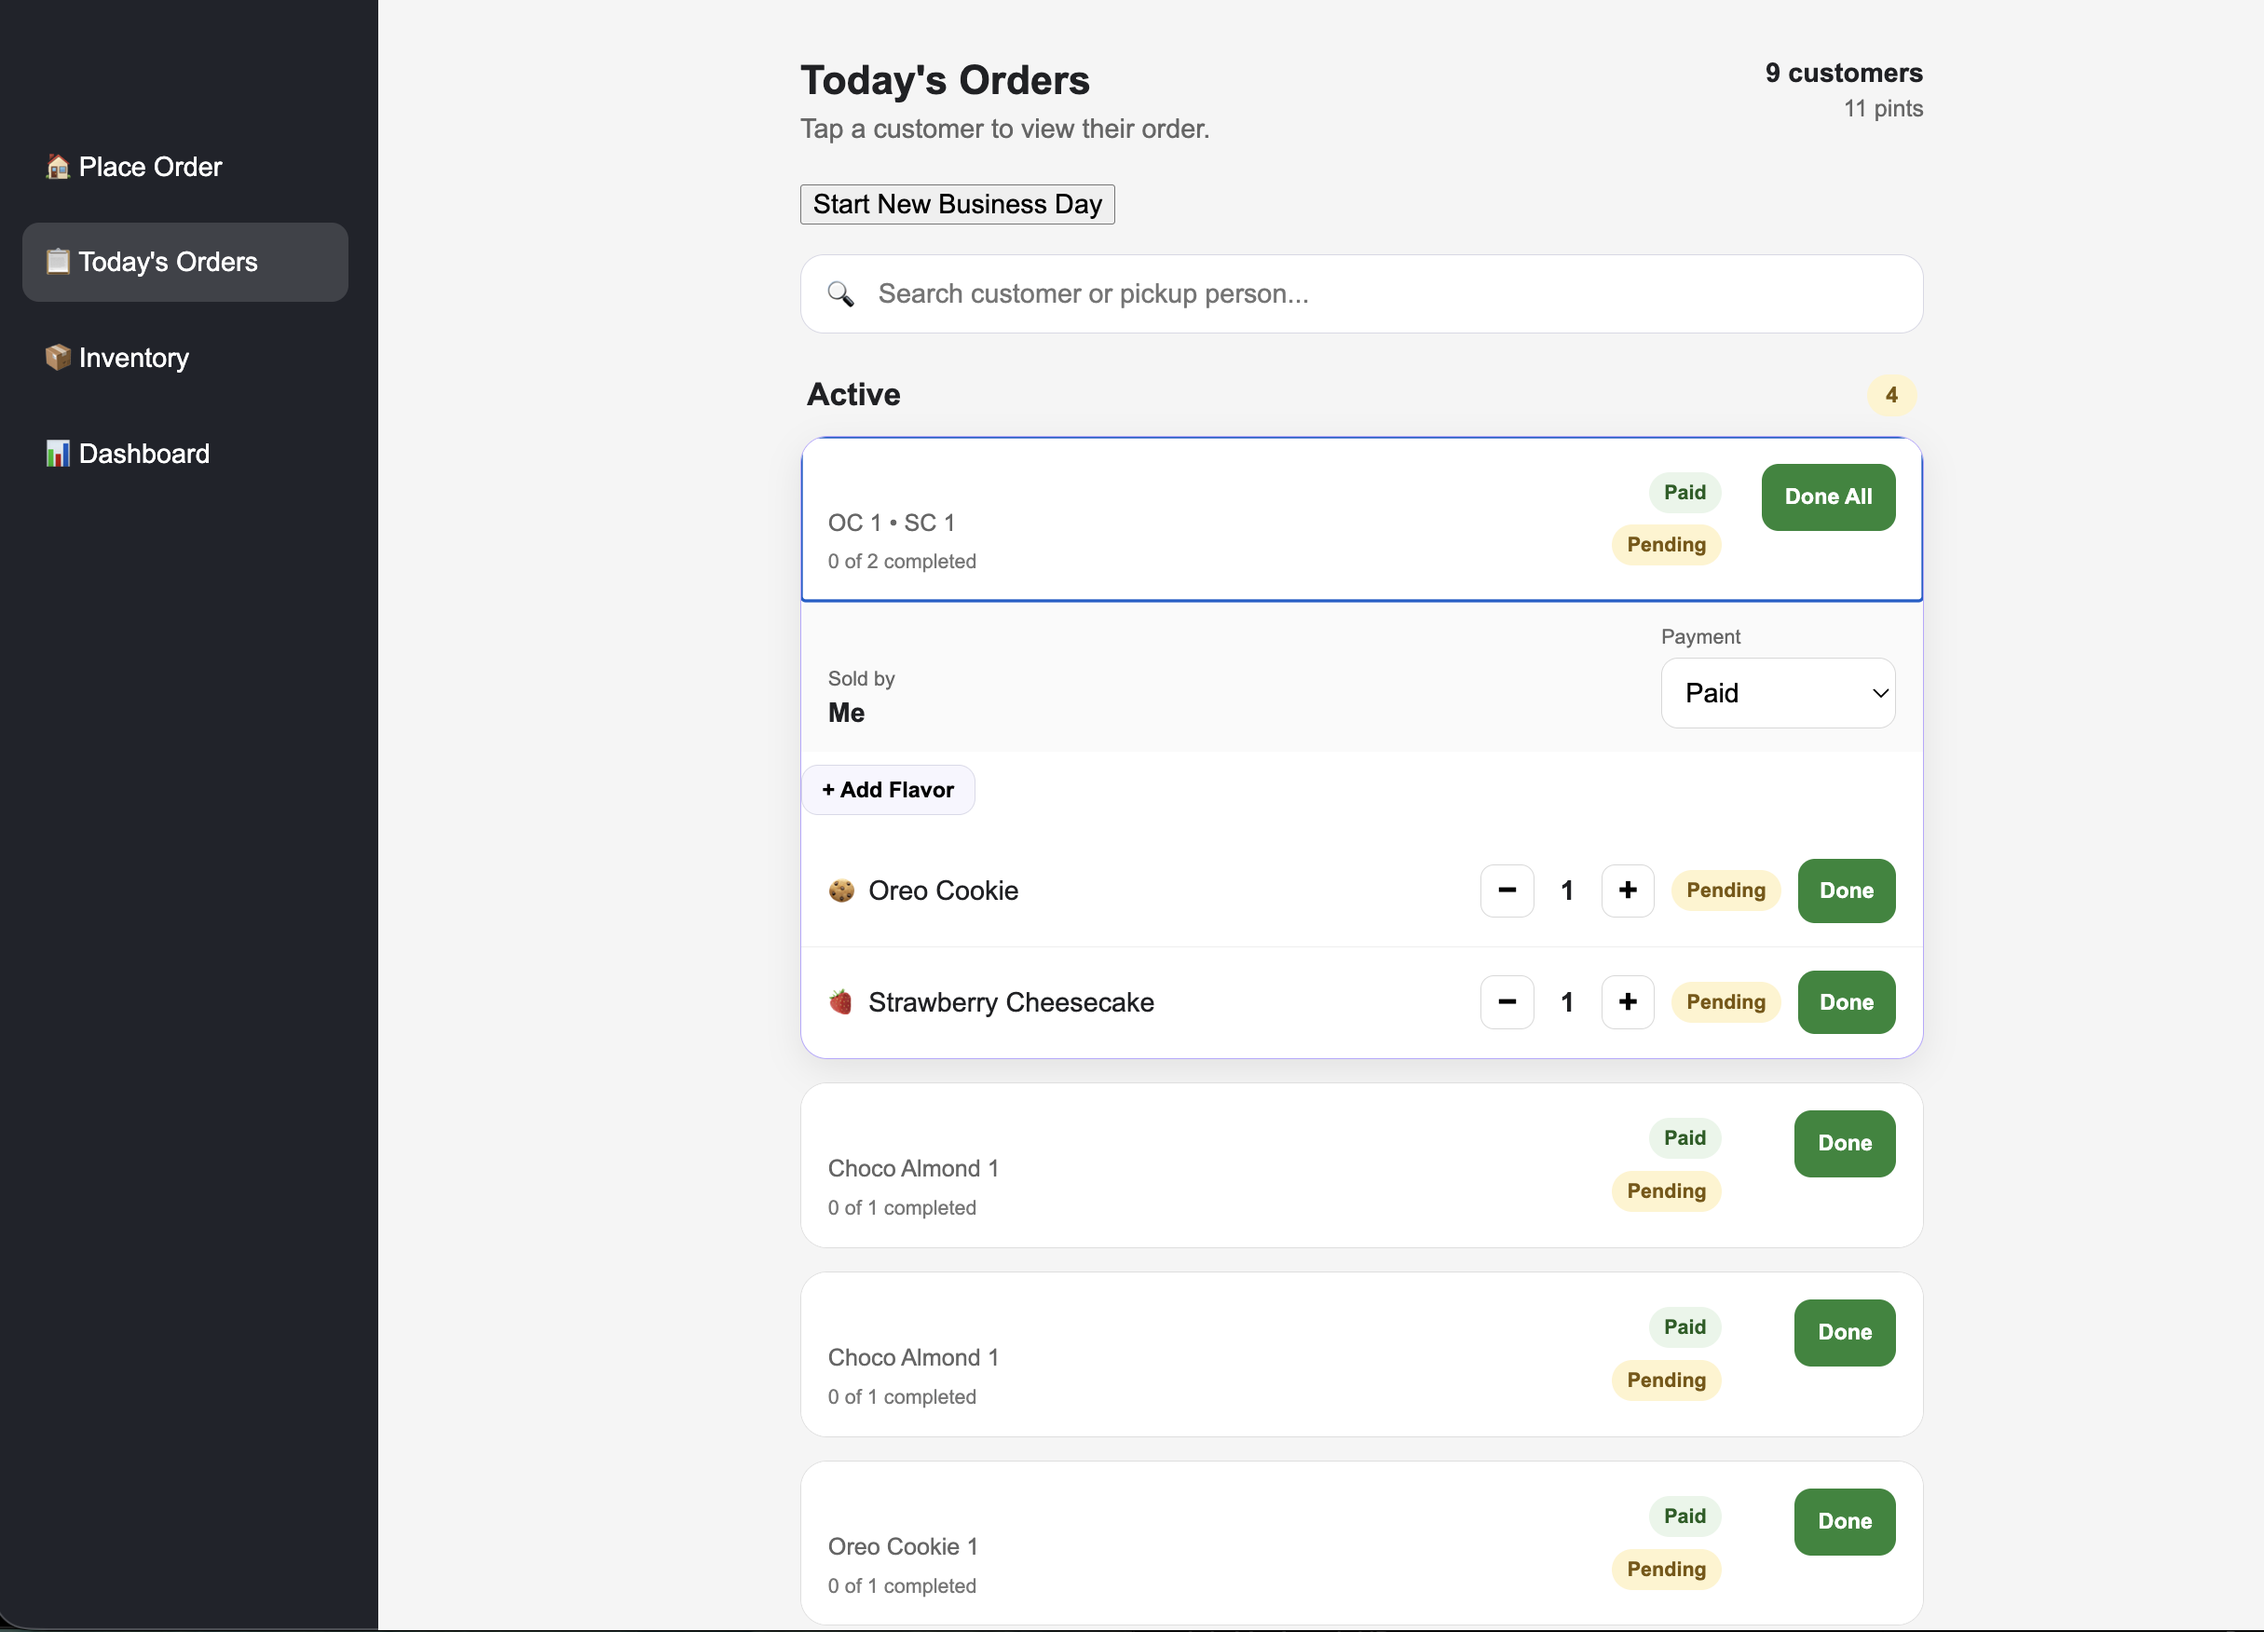
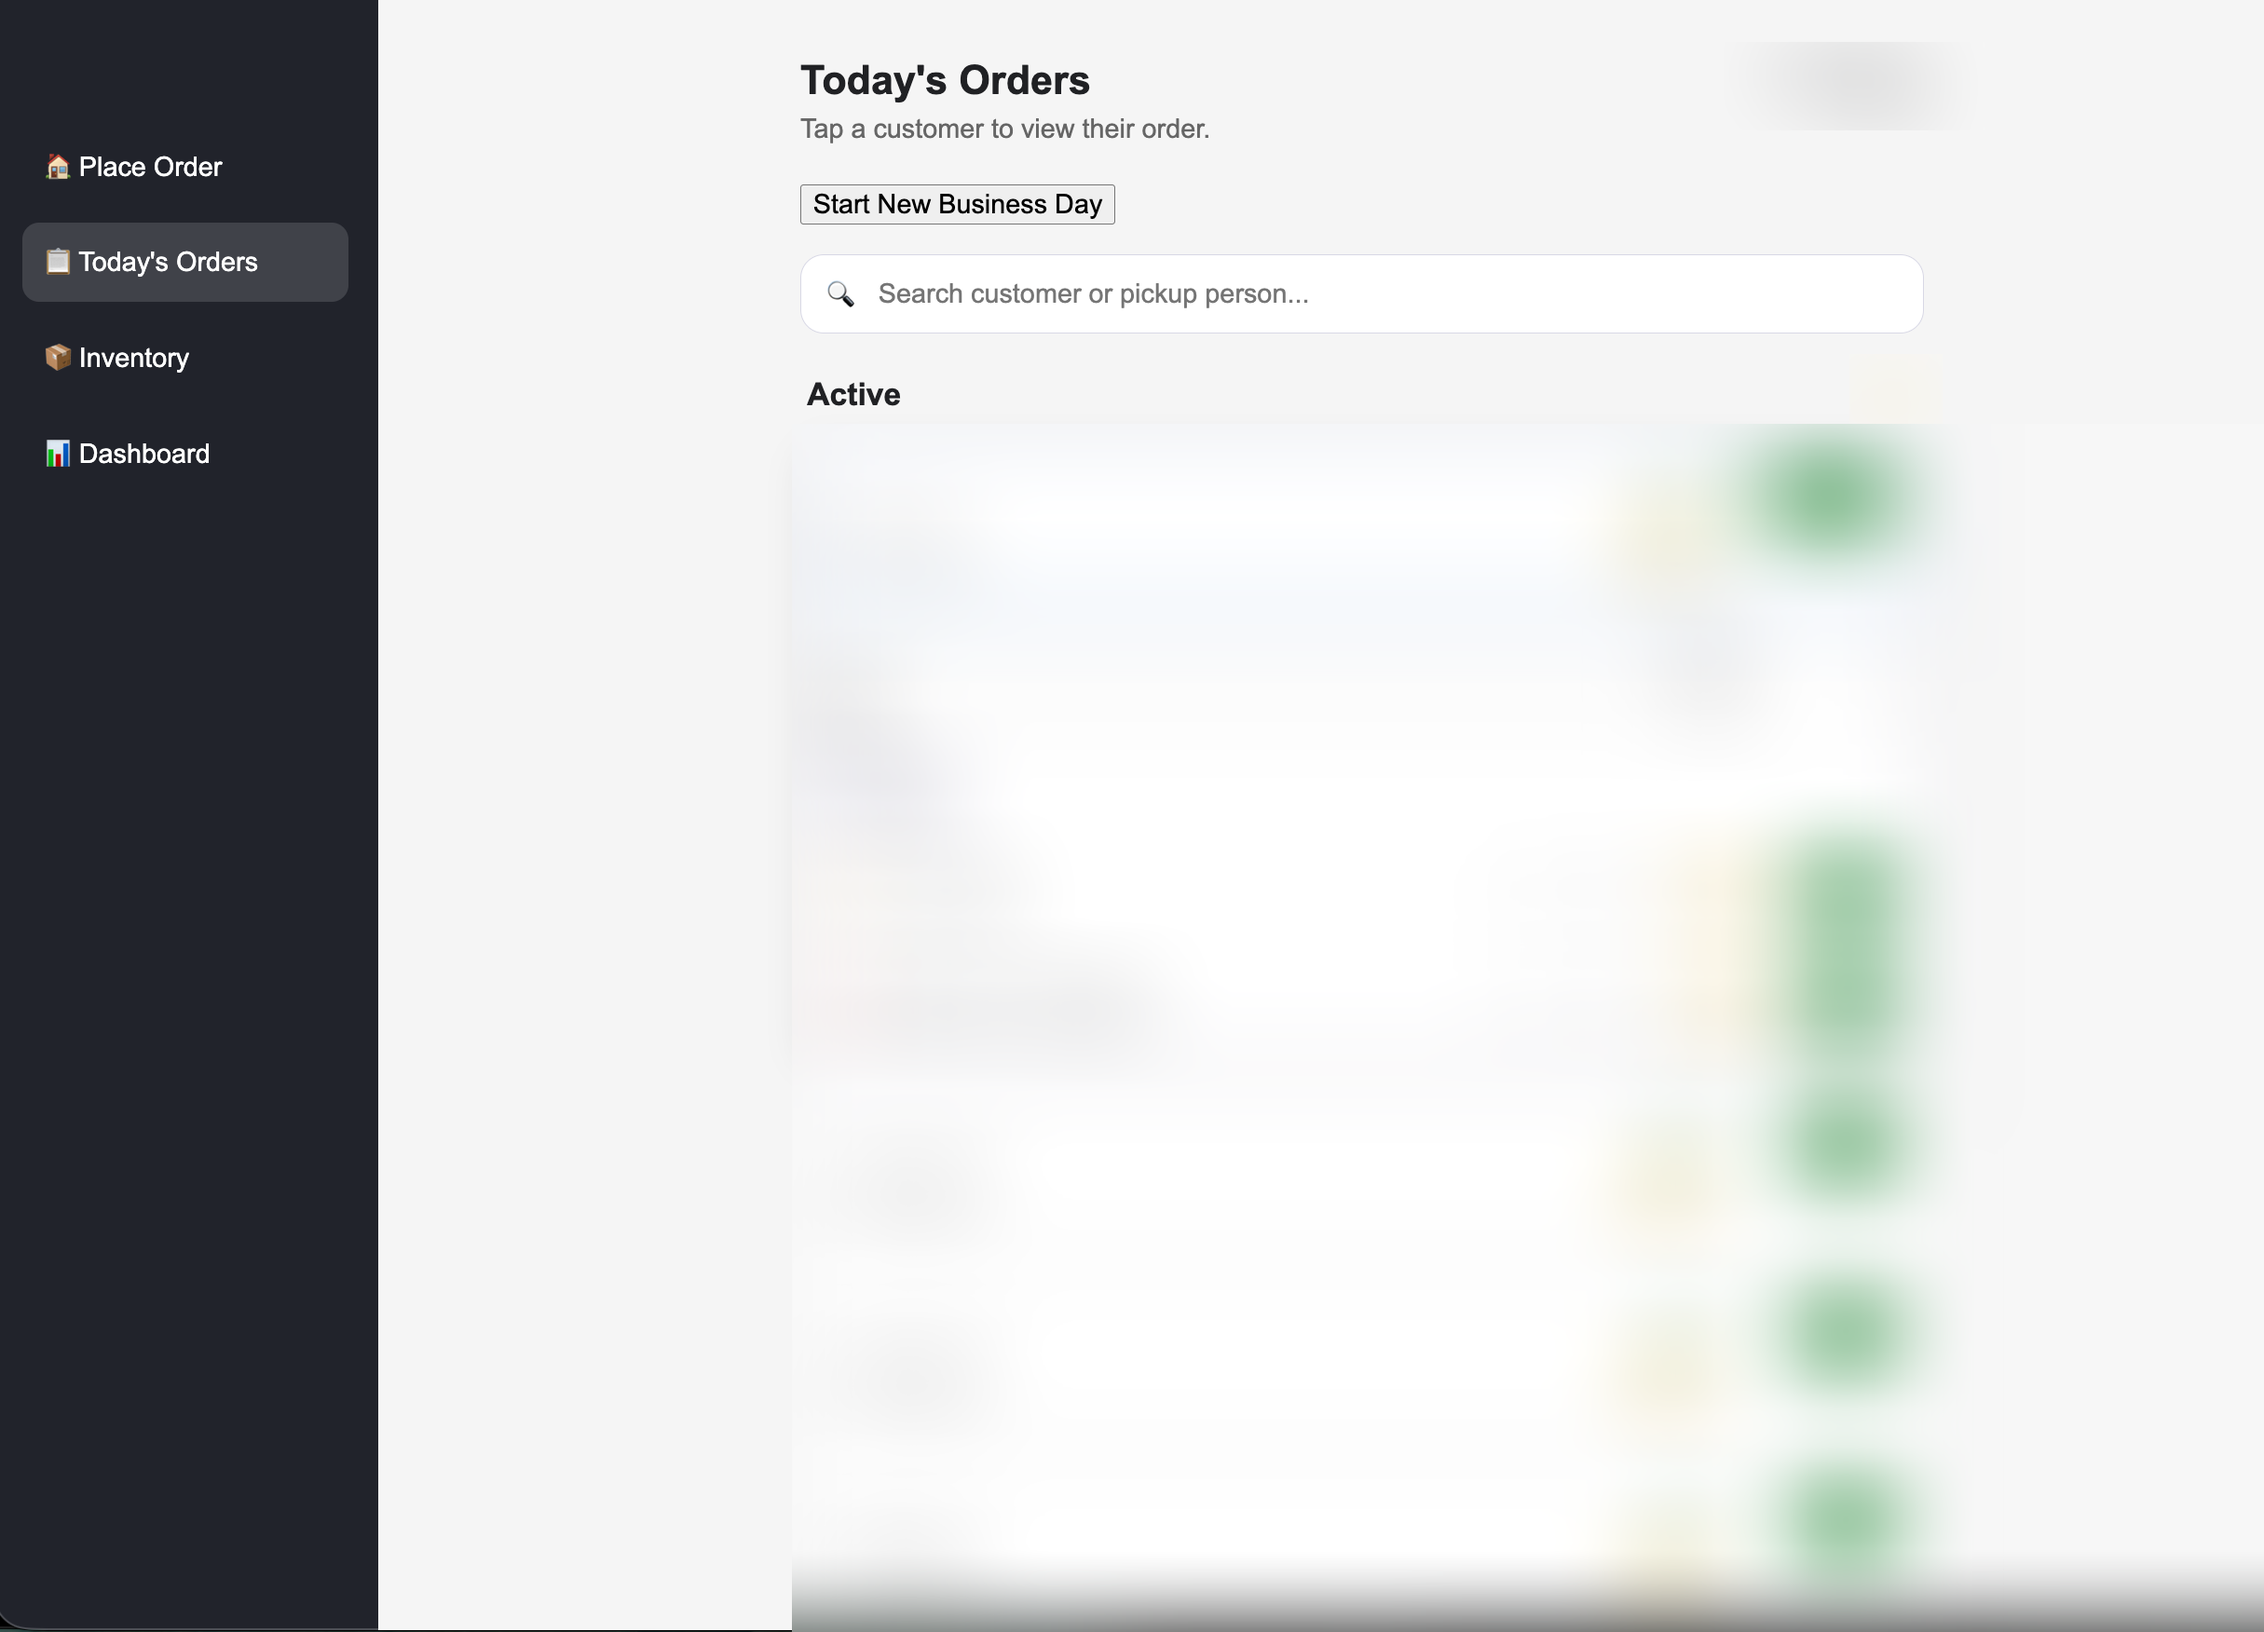
Add client-requested POS reports case study

diff --git a/src/app/projects/small-ice-cream-business/page.tsx b/src/app/projects/small-ice-cream-business/page.tsx
@@ -1,5 +1,6 @@
 import type { ReactNode } from "react";
 import type { Metadata } from "next";
+import Image from "next/image";
 import SystemGallery from "./SystemGallery";
 
 export const metadata: Metadata = {
@@ -26,7 +27,7 @@ const screenshots = {
   },
   inventory: {
     title: "Inventory",
-    image: "/projects/small-ice-cream-business/Inventory-Portfolio.png",
+    image: "/projects/small-ice-cream-business/Inventory-Portfolio-Cleaned.png",
     description:
       "Available stock is recorded by flavor and surfaced in the order entry screen.",
     width: 2434,
@@ -34,13 +35,20 @@ const screenshots = {
   },
   dashboard: {
     title: "Dashboard",
-    image: "/projects/small-ice-cream-business/Dashboard-Portfolio.png",
+    image: "/projects/small-ice-cream-business/Dashboard-Portfolio-Cleaned.png",
     description:
       "The dashboard brings together daily revenue, orders, pints sold, payments, commission, and an order summary by flavor.",
     width: 2492,
     height: 1696,
   },
 };
+
+const reportScreenshots = [
+  { title: "Financial Summary", image: "/images/reports/financial-summary.png", width: 2386, height: 1756 },
+  { title: "Invoice", image: "/images/reports/invoice-report.png", width: 2366, height: 1642 },
+  { title: "Sales by Date", image: "/images/reports/sales-by-date.png", width: 2366, height: 1642 },
+  { title: "Sales by Flavor", image: "/images/reports/sales-by-flavor.png", width: 2366, height: 1642 },
+];
 
 function SectionLabel({ children }: { children: ReactNode }) {
   return (
@@ -190,10 +198,49 @@ export default function SmallIceCreamBusinessOrderSystem() {
         </div>
       </section>
 
-      <section className="border-y border-zinc-900 bg-zinc-950 px-6 py-8">
-        <div className="mx-auto flex max-w-5xl flex-col gap-2 sm:flex-row sm:items-baseline sm:gap-6">
-          <p className="text-xs uppercase tracking-[0.2em] text-zinc-500">Reports · In development</p>
-          <p className="text-sm leading-6 text-zinc-400">A requested reporting section for generating summaries from system data.</p>
+      <section id="reports" className="border-y border-zinc-900 bg-zinc-950 px-6 py-20">
+        <div className="mx-auto max-w-5xl">
+          <SectionLabel>04 · Client-requested enhancement</SectionLabel>
+          <div className="mt-6 grid gap-10 md:grid-cols-[0.8fr_1.2fr]">
+            <div>
+              <h2 className="text-3xl font-bold">Reports, added in response to a new client need.</h2>
+              <p className="mt-4 text-sm leading-6 text-zinc-500">Complete and working in the live development version.</p>
+            </div>
+            <div className="space-y-5 leading-7 text-zinc-400">
+              <p>
+                <strong className="font-medium text-zinc-200">Problem.</strong> After the
+                initial POS system was developed, the client identified an additional need
+                for a clearer way to review sales activity, invoices, and recorded transactions.
+              </p>
+              <p>
+                <strong className="font-medium text-zinc-200">Solution.</strong> I built
+                the requested Reports tab with Financial Summary, Invoice, Sales by Date,
+                and Sales by Flavor views.
+              </p>
+              <p>
+                <strong className="font-medium text-zinc-200">Why it matters.</strong> The
+                enhancement makes business records easier to review and reflects how I work:
+                listening to client feedback, solving new problems, and improving a solution
+                after its initial delivery.
+              </p>
+            </div>
+          </div>
+
+          <div className="mt-10 grid gap-5 sm:grid-cols-2">
+            {reportScreenshots.map((report) => (
+              <figure key={report.image} className="overflow-hidden rounded-2xl border border-white/10 bg-zinc-900">
+                <Image
+                  src={report.image}
+                  alt={`${report.title} report interface with private details blurred`}
+                  width={report.width}
+                  height={report.height}
+                  sizes="(max-width: 640px) 100vw, (max-width: 1024px) 50vw, 480px"
+                  className="block h-auto w-full"
+                />
+                <figcaption className="border-t border-white/10 px-5 py-4 font-medium text-white">{report.title}</figcaption>
+              </figure>
+            ))}
+          </div>
         </div>
       </section>
 
